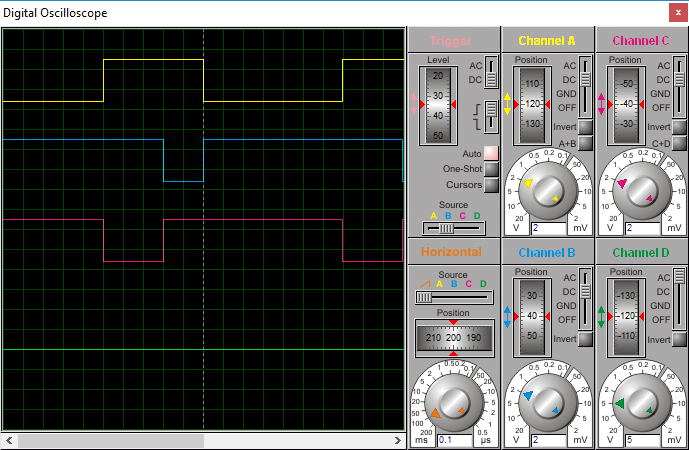
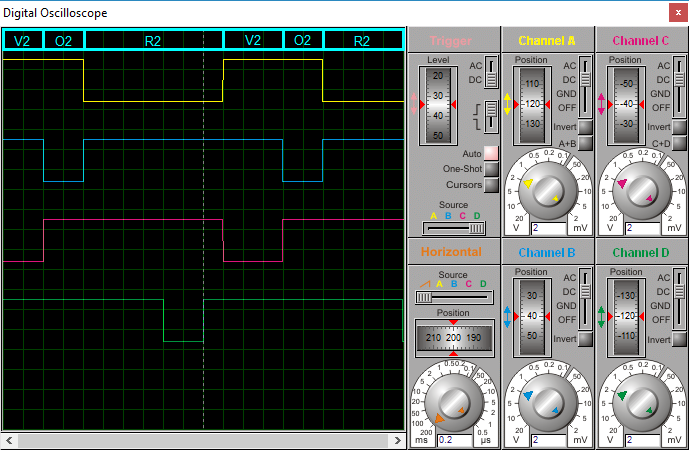
Initial Commit

diff --git a/Tutoriels/8051/Machine_Etats_Finis_SEOS/GProject.build_log.htm b/Tutoriels/8051/Machine_Etats_Finis_SEOS/GProject.build_log.htm
@@ -30,23 +30,6 @@ linking...
 Program Size: data=19.0 xdata=0 code=1064
 creating hex file from "GProject"...
 "GProject" - 0 Error(s), 0 Warning(s).
-</pre>
-</body>
-</html>
-'GTrafficLights_Light_L2': missing function-prototype
-compiling GTrafficLights.c...
-linking...
-Program Size: data=15.0 xdata=0 code=1006
-creating hex file from "GProject"...
-"GProject" - 0 Error(s), 3 Warning(s).
-IGHT_L2?GTRAFFICLIGHTS
-*** WARNING L1: UNRESOLVED EXTERNAL SYMBOL
-    SYMBOL:  GLEDFLASH_UPDATE
-    MODULE:  GSeos.obj (GSEOS)
-*** WARNING L2: REFERENCE MADE TO UNRESOLVED EXTERNAL
-    SYMBOL:  GLEDFLASH_UPDATE
-    MODULE:  GSeos.obj (GSEOS)
-    ADDRESS: 0391H
-Program Size: data=15.0 xdata=0 code=1003
-creating hex file from "GProject"...
-"GProject" - 0 Error(s), 6 Warning(s).
+ager\GTrafficLights.c(113): error C141: syntax error near '{'
+manager\GTrafficLights.c(143): error C141: syntax error near '{'
+Target not created.

diff --git a/Tutoriels/8051/Communication_RS232/GProject.build_log.htm b/Tutoriels/8051/Communication_RS232/GProject.build_log.htm
@@ -32,8 +32,10 @@ linking...
 Program Size: data=59.1 xdata=0 code=1424
 creating hex file from "GProject"...
 "GProject" - 0 Error(s), 0 Warning(s).
-EOS
-    CALLER2: ?C_C51STARTUP
+</pre>
+</body>
+</html>
+ARTUP
 Program Size: data=63.1 xdata=0 code=1432
 creating hex file from "GProject"...
 "GProject" - 0 Error(s), 1 Warning(s).

diff --git a/Tutoriels/8051/page/main.php b/Tutoriels/8051/page/main.php
@@ -663,4 +663,4 @@ void GInterruptT2_Update() interrupt INTERRUPT_TIMER_T2 {
     TF2 = 0;
     GLedFlash_Update();
 }
-//===============================================</xmp></pre></div><br><h3 class="Title8 GTitle3">Simulation électrique</h3><br><span class="GColor1" style="color:lime;">Diode LED éteinte pendant 1s<br></span><div class="Img3 GImage"><img src="img/Interruption_Timer_T2.png" alt="img/Interruption_Timer_T2.png"></div><br><span class="GColor1" style="color:lime;">Diode LED allumée pendant 1s<br></span><div class="Img3 GImage"><img src="img/Interruption_Timer_T2_02.png" alt="img/Interruption_Timer_T2_02.png"></div><br><span class="GColor1" style="color:lime;">Forme d'onde (Les délais sont précis)<br></span><div class="Img3 GImage"><img src="img/Interruption_Timer_T2_03.png" alt="img/Interruption_Timer_T2_03.png"></div></div></div></div></div><br><div class="Content2 GTitle1"><div class="MainBlock2"><div class="Content"><h1 class="Title2 Center" id="Définir un système d'exploitation embarqué simple Timer T2"><a class="Link3" href="#">Définir un système d'exploitation embarqué simple Timer T2</a></h1><div class="Body3">Le but de cette section est de vous apprendre à <span class="GColor1" style="color:lime;">définir un système d'exploitation embarqué simple</span> à base du <span class="GColor1" style="color:lime;">Timer T2</span> avec le C 8051.<br>Produit par <b>Gérard KESSE</b>.<br><br>Le <b>sEOS</b> (Simple Embedded Operating Système) permet gérer des applications embarquées multitâches temps réel.<br><br><h3 class="Title8 GTitle3">Programme principal</h3><br><br><br><br><br><h3 class="Title8 GTitle3">Simulation électrique</h3><br><span class="GColor1" style="color:lime;">Diode LED éteinte pendant 1s</span><div class="Img3 GImage"><img src="img/SEOS_Timer_T2.png" alt="img/SEOS_Timer_T2.png"></div><br><span class="GColor1" style="color:lime;">Diode LED allumée pendant 1s</span><div class="Img3 GImage"><img src="img/SEOS_Timer_T2_02.png" alt="img/SEOS_Timer_T2_02.png"></div><br><span class="GColor1" style="color:lime;">Forme d'onde (Les délais sont très précis)</span><div class="Img3 GImage"><img src="img/SEOS_Timer_T2_03.png" alt="img/SEOS_Timer_T2_03.png"></div><br><span class="GColor1" style="color:lime;">Analyse de performance (Processeur en mode Idle à 91.9 % du temps)</span><div class="Img3 GImage"><img src="img/SEOS_Timer_T2_04.png" alt="img/SEOS_Timer_T2_04.png"></div></div></div></div></div><br><div class="Content2 GTitle1"><div class="MainBlock2"><div class="Content"><h1 class="Title2 Center" id="Définir un système d'exploitation embarqué simple Timer T0"><a class="Link3" href="#">Définir un système d'exploitation embarqué simple Timer T0</a></h1><div class="Body3">Le but de cette section est de vous apprendre à <span class="GColor1" style="color:lime;">définir un système d'exploitation embarqué simple</span> à base du <span class="GColor1" style="color:lime;">Timer T0</span> avec le C 8051.<br>Produit par <b>Gérard KESSE</b>.<br><br>Le <b>sEOS</b> (Simple Embedded Operating Système) permet gérer des applications embarquées multitâches temps réel.<br><br><h3 class="Title8 GTitle3">Programme principal</h3><br><br><br><br><br><br><h3 class="Title8 GTitle3">Simulation électrique</h3><br><span class="GColor1" style="color:lime;">Diode LED éteinte pendant 1s</span><br><div class="Img3 GImage"><img src="img/SEOS_Timer_T0.png" alt="img/SEOS_Timer_T0.png"></div><br><span class="GColor1" style="color:lime;">Diode LED allumée pendant 1s</span><br><div class="Img3 GImage"><img src="img/SEOS_Timer_T0_02.png" alt="img/SEOS_Timer_T0_02.png"></div><br><span class="GColor1" style="color:lime;">Forme d'onde (Les délais sont très précis)</span><br><div class="Img3 GImage"><img src="img/SEOS_Timer_T0_03.png" alt="img/SEOS_Timer_T0_03.png"></div><br><span class="GColor1" style="color:lime;">Analyse de performance (Processeur en mode Idle à 91.2 % du temps)</span><br><div class="Img3 GImage"><img src="img/SEOS_Timer_T0_04.png" alt="img/SEOS_Timer_T0_04.png"></div></div></div></div></div><br><div class="Content2 GTitle1"><div class="MainBlock2"><div class="Content"><h1 class="Title2 Center" id="Gérer les machines à états finis"><a class="Link3" href="#">Gérer les machines à états finis</a></h1><div class="Body3">Ajouter un texte ici...</div></div></div></div><br><div class="Content2 GTitle1"><div class="MainBlock2"><div class="Content"><h1 class="Title2 Center" id="Gérer les communications RS232"><a class="Link3" href="#">Gérer les communications RS232</a></h1><div class="Body3">Ajouter un texte ici...</div></div></div></div><br>
+//===============================================</xmp></pre></div><br><h3 class="Title8 GTitle3">Simulation électrique</h3><br><span class="GColor1" style="color:lime;">Diode LED éteinte pendant 1s<br></span><div class="Img3 GImage"><img src="img/Interruption_Timer_T2.png" alt="img/Interruption_Timer_T2.png"></div><br><span class="GColor1" style="color:lime;">Diode LED allumée pendant 1s<br></span><div class="Img3 GImage"><img src="img/Interruption_Timer_T2_02.png" alt="img/Interruption_Timer_T2_02.png"></div><br><span class="GColor1" style="color:lime;">Forme d'onde (Les délais sont précis)<br></span><div class="Img3 GImage"><img src="img/Interruption_Timer_T2_03.png" alt="img/Interruption_Timer_T2_03.png"></div></div></div></div></div><br><div class="Content2 GTitle1"><div class="MainBlock2"><div class="Content"><h1 class="Title2 Center" id="Définir un système d'exploitation embarqué simple Timer T2"><a class="Link3" href="#">Définir un système d'exploitation embarqué simple Timer T2</a></h1><div class="Body3">Le but de cette section est de vous apprendre à <span class="GColor1" style="color:lime;">définir un système d'exploitation embarqué simple</span> à base du <span class="GColor1" style="color:lime;">Timer T2</span> avec le C 8051.<br>Produit par <b>Gérard KESSE</b>.<br><br>Le <b>sEOS</b> (Simple Embedded Operating Système) permet gérer des applications embarquées multitâches temps réel.<br><br><h3 class="Title8 GTitle3">Programme principal</h3><br><br><br><br><br><h3 class="Title8 GTitle3">Simulation électrique</h3><br><span class="GColor1" style="color:lime;">Diode LED éteinte pendant 1s</span><div class="Img3 GImage"><img src="img/SEOS_Timer_T2.png" alt="img/SEOS_Timer_T2.png"></div><br><span class="GColor1" style="color:lime;">Diode LED allumée pendant 1s</span><div class="Img3 GImage"><img src="img/SEOS_Timer_T2_02.png" alt="img/SEOS_Timer_T2_02.png"></div><br><span class="GColor1" style="color:lime;">Forme d'onde (Les délais sont très précis)</span><div class="Img3 GImage"><img src="img/SEOS_Timer_T2_03.png" alt="img/SEOS_Timer_T2_03.png"></div><br><span class="GColor1" style="color:lime;">Analyse de performance (Processeur en mode Idle à 91.9 % du temps)</span><div class="Img3 GImage"><img src="img/SEOS_Timer_T2_04.png" alt="img/SEOS_Timer_T2_04.png"></div></div></div></div></div><br><div class="Content2 GTitle1"><div class="MainBlock2"><div class="Content"><h1 class="Title2 Center" id="Définir un système d'exploitation embarqué simple Timer T0"><a class="Link3" href="#">Définir un système d'exploitation embarqué simple Timer T0</a></h1><div class="Body3">Le but de cette section est de vous apprendre à <span class="GColor1" style="color:lime;">définir un système d'exploitation embarqué simple</span> à base du <span class="GColor1" style="color:lime;">Timer T0</span> avec le C 8051.<br>Produit par <b>Gérard KESSE</b>.<br><br>Le <b>sEOS</b> (Simple Embedded Operating Système) permet gérer des applications embarquées multitâches temps réel.<br><br><h3 class="Title8 GTitle3">Programme principal</h3><br><br><br><br><br><br><h3 class="Title8 GTitle3">Simulation électrique</h3><br><span class="GColor1" style="color:lime;">Diode LED éteinte pendant 1s</span><br><div class="Img3 GImage"><img src="img/SEOS_Timer_T0.png" alt="img/SEOS_Timer_T0.png"></div><br><span class="GColor1" style="color:lime;">Diode LED allumée pendant 1s</span><br><div class="Img3 GImage"><img src="img/SEOS_Timer_T0_02.png" alt="img/SEOS_Timer_T0_02.png"></div><br><span class="GColor1" style="color:lime;">Forme d'onde (Influence du temps de rechargement du Timer T0)</span><br><div class="Img3 GImage"><img src="img/SEOS_Timer_T0_03.png" alt="img/SEOS_Timer_T0_03.png"></div><br><span class="GColor1" style="color:lime;">Analyse de performance (Processeur en mode Idle à 91.2 % du temps)</span><br><div class="Img3 GImage"><img src="img/SEOS_Timer_T0_04.png" alt="img/SEOS_Timer_T0_04.png"></div></div></div></div></div><br><div class="Content2 GTitle1"><div class="MainBlock2"><div class="Content"><h1 class="Title2 Center" id="Gérer les machines à états finis"><a class="Link3" href="#">Gérer les machines à états finis</a></h1><div class="Body3">Le but de cette section est de vous apprendre à <span class="GColor1" style="color:lime;">gérer les machines à états finis</span> avec le C 8051.<br>Produit par <b>Gérard KESSE.</b><br><br>Le structure logicielle machine à états finis permet de gérer des applications embarqués sous la forme d'une séquences d'états finis.<br><br><h3 class="Title8 GTitle3">Programme principal</h3><br><br><br><br><br><br><br><h3 class="Title8 GTitle3">Simulation électrique</h3><br><span class="GColor1" style="color:lime;">Système de gestion de feux tricolores</span><div class="Img3 GImage"><img src="img/Machine_Etats_Finis_SEOS.png" alt="img/Machine_Etats_Finis_SEOS.png"></div><br><span class="GColor1" style="color:lime;">Voie 1 ROUGE - Voie 2 VERT</span><div class="Img3 GImage"><img src="img/Machine_Etats_Finis_SEOS_02.png" alt="img/Machine_Etats_Finis_SEOS_02.png"></div><br><span class="GColor1" style="color:lime;">Voie 1 ROUGE - Voie 2 ORANGE</span><div class="Img3 GImage"><img src="img/Machine_Etats_Finis_SEOS_03.png" alt="img/Machine_Etats_Finis_SEOS_03.png"></div><br><span class="GColor1" style="color:lime;">Voie 1 ROUGE - Voie 2 ROUGE </span><div class="Img3 GImage"><img src="img/Machine_Etats_Finis_SEOS_04.png" alt="img/Machine_Etats_Finis_SEOS_04.png"></div><br><span class="GColor1" style="color:lime;">Voie 1 VERT - Voie 2 ROUGE </span><div class="Img3 GImage"><img src="img/Machine_Etats_Finis_SEOS_05.png" alt="img/Machine_Etats_Finis_SEOS_05.png"></div><br><span class="GColor1" style="color:lime;">Voie 1 ORANGE- Voie 2 ROUGE</span><div class="Img3 GImage"><img src="img/Machine_Etats_Finis_SEOS_06.png" alt="img/Machine_Etats_Finis_SEOS_06.png"></div><br><span class="GColor1" style="color:lime;">Voie 1 ROUGE - Voie 2 ROUGE</span><div class="Img3 GImage"><img src="img/Machine_Etats_Finis_SEOS_07.png" alt="img/Machine_Etats_Finis_SEOS_07.png"></div><br><span class="GColor1" style="color:lime;">Forme d'onde (Voie 1)<br></span><div class="Img3 GImage"><img src="img/Machine_Etats_Finis_SEOS_08.png" alt="img/Machine_Etats_Finis_SEOS_08.png"></div><br><span class="GColor1" style="color:lime;">Forme d'onde (Voie 2)<br></span><div class="Img3 GImage"><img src="img/Machine_Etats_Finis_SEOS_09.png" alt="img/Machine_Etats_Finis_SEOS_09.png"></div></div></div></div></div><br><div class="Content2 GTitle1"><div class="MainBlock2"><div class="Content"><h1 class="Title2 Center" id="Gérer les communications RS232"><a class="Link3" href="#">Gérer les communications RS232</a></h1><div class="Body3">Le but de cette section est de vous apprendre à définir un système d'exploitation embarqué simple à base du Timer T0 avec le C 8051.<br>Produit par Gérard KESSE.<br><br>Le sEOS (Simple Embedded Operating Système) permet gérer des applications embarquées multitâches temps réel.<br><br>Programme principal<br><br><br><br><br><br><br>Simulation électrique</div></div></div></div><br>

diff --git a/Tutoriels/8051/Machine_Etats_Finis_SEOS/manager/GPortDef.h b/Tutoriels/8051/Machine_Etats_Finis_SEOS/manager/GPortDef.h
@@ -11,9 +11,9 @@ sbit LIGHT_AMBER_L2 = LIGHT^4;
 sbit LIGHT_GREEN_L2 = LIGHT^5;
 #define LIGHT_ON (0)
 #define LIGHT_OFF (!LIGHT_ON)
-#define LIGHT_GREEN_DURATION (3)
-#define LIGHT_AMBER_DURATION (2)
-#define LIGHT_RED_RED_DURATION (1)
+#define LIGHT_GREEN_DURATION (6)
+#define LIGHT_AMBER_DURATION (4)
+#define LIGHT_RED_RED_DURATION (2)
 #define LIGHT_RED_DURATION (LIGHT_GREEN_DURATION)
 #define LIGHT_RED_AMBER_DURATION (LIGHT_AMBER_DURATION)
 #define LIGHT_RED_RED_1_DURATION (LIGHT_RED_RED_DURATION)
